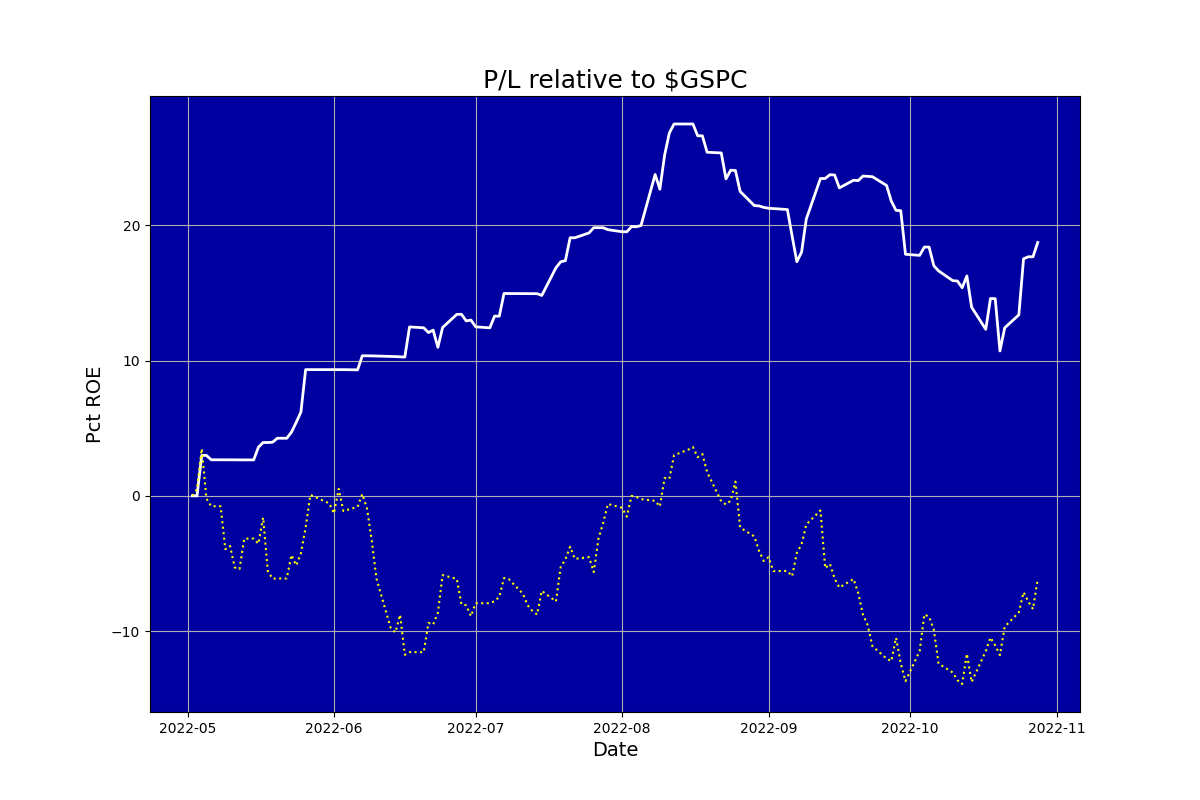
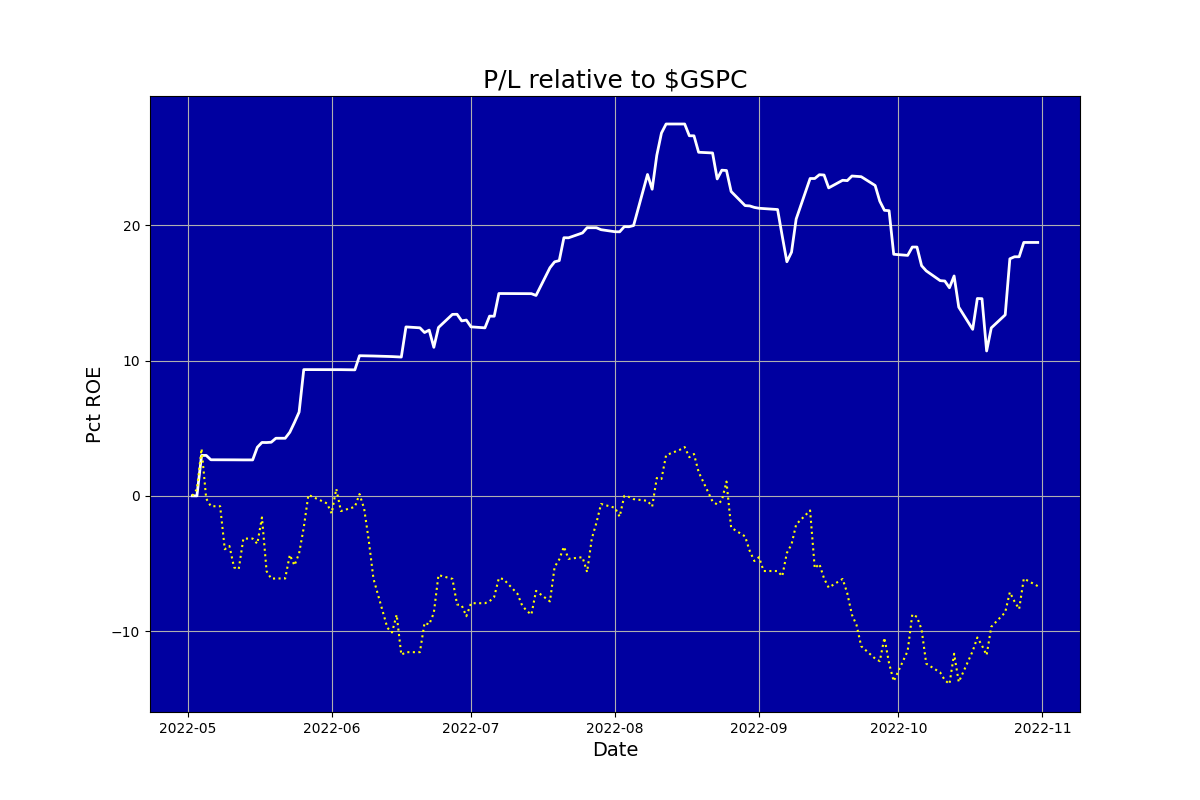
Updated

diff --git a/ig_report.html b/ig_report.html
@@ -1,1 +1,1 @@
-<html><body><center><h1>Auriel (never knowingly overbought)</h1></center><table cols=2><tr><td><img src=ig_pl.png></td><td><table cols=2><tr><td colspan=2><b><br>Snapshot</b></td></tr><tr><td>Last updated:&nbsp;&nbsp;&nbsp;</td><td>2022-10-30 04:53</td></tr><tr><td>Funds:&nbsp;&nbsp;&nbsp;</td><td>13550.67</td></tr><tr><td>Margin:&nbsp;&nbsp;&nbsp;</td><td>0.00</td></tr><tr><td>Cushion:&nbsp;&nbsp;&nbsp;</td><td>-3282.66</td></tr><tr><td>Last closed trade:&nbsp;&nbsp;&nbsp;</td><td>2022-10-28</td></tr><tr><td colspan=2><b><br>Positions</b></td></tr><tr><td>Mean days to new high:&nbsp;&nbsp;&nbsp;</td><td>11.34</td></tr><tr><td colspan=2><b><br>Trades</b></td></tr><tr><td>Traded days:&nbsp;&nbsp;&nbsp;</td><td>132</td></tr><tr><td>Pct profitable days:&nbsp;&nbsp;&nbsp;</td><td>34.85</td></tr><tr><td>Pct trades beat S&P:&nbsp;&nbsp;&nbsp;</td><td>66.22</td></tr><tr><td>Pct profitable months:&nbsp;&nbsp;&nbsp;</td><td>83.33</td></tr><tr><td colspan=2><b><br>Performance</b></td></tr><tr><td>Pct median monthly ROE:&nbsp;&nbsp;&nbsp;</td><td>2.66</td></tr><tr><td>Pct annualised ROE:&nbsp;&nbsp;&nbsp;</td><td>35.49</td></tr><tr><td colspan=2><b><br>Risk</b></td></tr><tr><td>Volatility pct:&nbsp;&nbsp;&nbsp;</td><td>17.88</td></tr><tr><td>Benchmark volatility pct:&nbsp;&nbsp;&nbsp;</td><td>25.40</td></tr><tr><td>Sharpe ratio (RFR 2.5%):&nbsp;&nbsp;&nbsp;</td><td>1.90</td></tr><tr><td>Calmar ratio:&nbsp;&nbsp;&nbsp;</td><td>2.21</td></tr><tr><td>Worst drawdown pct:&nbsp;&nbsp;&nbsp;</td><td>-0.16</td></tr><tr><td>Recovery days from worst drawdown:&nbsp;&nbsp;&nbsp;</td><td>9999.00</td></tr><tr><td>Beat benchmark +ve periods pct:&nbsp;&nbsp;&nbsp;</td><td>0.80</td></tr><tr><td>Beat benchmark -ve periods pct:&nbsp;&nbsp;&nbsp;</td><td>0.91</td></tr><tr><td>Correlation with benchmark:&nbsp;&nbsp;&nbsp;</td><td>0.48</td></tr></table></td></tr></table></body></html>
+<html><body><center><h1>Auriel (never knowingly overbought)</h1></center><table cols=2><tr><td><img src=ig_pl.png></td><td><table cols=2><tr><td colspan=2><b><br>Snapshot</b></td></tr><tr><td>Last updated:&nbsp;&nbsp;&nbsp;</td><td>2022-10-31 15:56</td></tr><tr><td>Funds:&nbsp;&nbsp;&nbsp;</td><td>13550.67</td></tr><tr><td>Margin:&nbsp;&nbsp;&nbsp;</td><td>0.17</td></tr><tr><td>Cushion:&nbsp;&nbsp;&nbsp;</td><td>-3291.02</td></tr><tr><td>Last closed trade:&nbsp;&nbsp;&nbsp;</td><td>2022-10-28</td></tr><tr><td colspan=2><b><br>Positions</b></td></tr><tr><td>Mean days to new high:&nbsp;&nbsp;&nbsp;</td><td>11.68</td></tr><tr><td colspan=2><b><br>Trades</b></td></tr><tr><td>Traded days:&nbsp;&nbsp;&nbsp;</td><td>133</td></tr><tr><td>Pct profitable days:&nbsp;&nbsp;&nbsp;</td><td>34.59</td></tr><tr><td>Pct trades beat S&P:&nbsp;&nbsp;&nbsp;</td><td>66.22</td></tr><tr><td>Pct profitable months:&nbsp;&nbsp;&nbsp;</td><td>83.33</td></tr><tr><td colspan=2><b><br>Performance</b></td></tr><tr><td>Pct median monthly ROE:&nbsp;&nbsp;&nbsp;</td><td>2.66</td></tr><tr><td>Pct annualised ROE:&nbsp;&nbsp;&nbsp;</td><td>35.22</td></tr><tr><td colspan=2><b><br>Risk</b></td></tr><tr><td>Volatility pct:&nbsp;&nbsp;&nbsp;</td><td>17.81</td></tr><tr><td>Benchmark volatility pct:&nbsp;&nbsp;&nbsp;</td><td>25.49</td></tr><tr><td>Sharpe ratio (RFR 2.5%):&nbsp;&nbsp;&nbsp;</td><td>1.90</td></tr><tr><td>Calmar ratio:&nbsp;&nbsp;&nbsp;</td><td>2.20</td></tr><tr><td>Worst drawdown pct:&nbsp;&nbsp;&nbsp;</td><td>-0.16</td></tr><tr><td>Recovery days from worst drawdown:&nbsp;&nbsp;&nbsp;</td><td>9999.00</td></tr><tr><td>Beat benchmark +ve periods pct:&nbsp;&nbsp;&nbsp;</td><td>0.80</td></tr><tr><td>Beat benchmark -ve periods pct:&nbsp;&nbsp;&nbsp;</td><td>0.91</td></tr><tr><td>Correlation with benchmark:&nbsp;&nbsp;&nbsp;</td><td>0.48</td></tr></table></td></tr></table></body></html>
